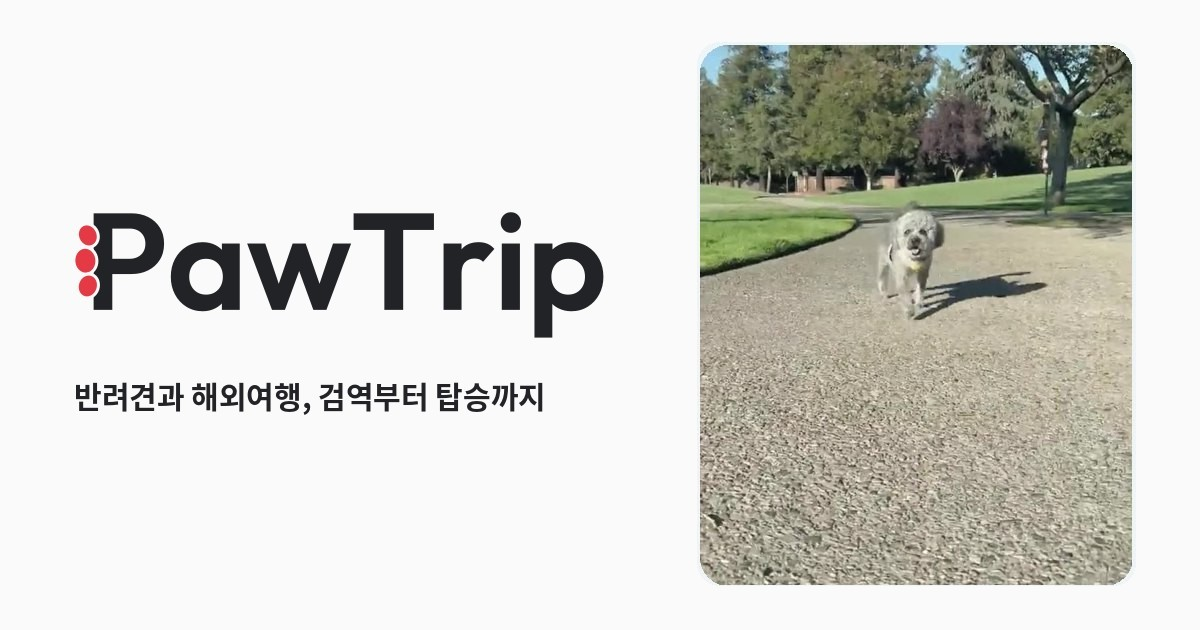
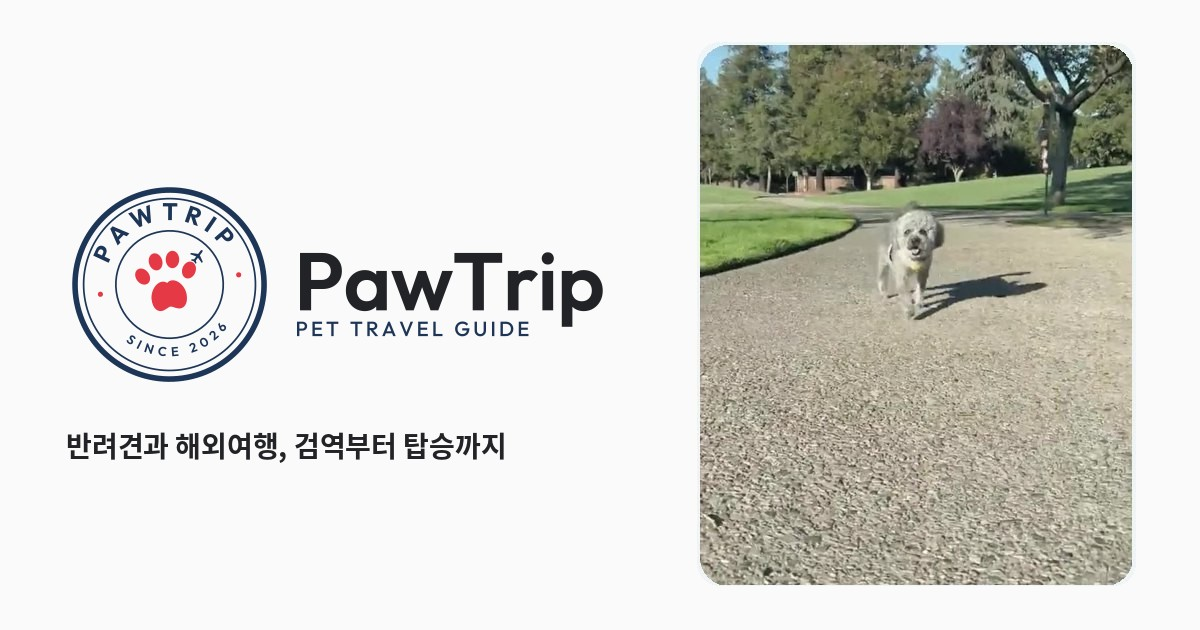
로고를 여권 스탬프 시안(3안)으로 교체: 헤더·파비콘은 간소화 스탬프, 공유 이미지·앱 아이콘은 풀 스탬프
Claude-Session: https://claude.ai/code/session_01V8ND8c5FDq3mgVKqjF2GzP

Changed region(s): [[0.0308, 0.2714, 0.5242, 0.754]]

diff --git a/index.html b/index.html
@@ -70,8 +70,8 @@ h1,h2,h3,h4{margin:0;text-wrap:balance}
 
 /* 로고 */
 .logo{display:inline-flex;align-items:center;text-decoration:none;color:var(--ink);line-height:0}
-.logo svg{height:28px;width:auto}
-.logo .toes{fill:var(--coral);stroke:var(--bg)}
+.logo svg{height:34px;width:auto}
+.rail .logo svg{height:38px}
 
 /* ---------- 모바일 상단 고정 내비 ---------- */
 .topbar{position:sticky;top:0;z-index:40;background:color-mix(in srgb,var(--bg) 88%,transparent);
@@ -333,7 +333,7 @@ table.cmp .dots{font-size:13px}
 
 <header class="topbar">
   <div class="topbar-row">
-    <a class="logo" href="#flights" aria-label="PawTrip 홈"><svg viewBox="-100 0 3932 935" aria-hidden="true" focusable="false"><path fill="currentColor" d="M72 720V17H349Q416 17 469.5 44.0Q523 71 554.0 120.5Q585 170 585.0 238.0Q585 306 554.0 355.5Q523 405 469.5 432.0Q416 459 349 459H208V720ZM208 128V348H335Q367 348 393.0 335.0Q419 322 434.0 297.5Q449 273 449 238Q449 204 434.0 179.0Q419 154 393.0 141.0Q367 128 335 128Z M866 730Q800 730 747.0 697.0Q694 664 664.0 607.0Q634 550 634 479Q634 407 664.0 350.0Q694 293 747.0 260.0Q800 227 866 227Q918 227 959 248Q986 262 1006 283V237H1136V720H1006V673Q986 694 959 708Q918 730 866 730ZM890 609Q945 609 979.0 572.5Q1013 536 1013 478Q1013 440 997.5 410.5Q982 381 954.5 364.5Q927 348 890 348Q854 348 826.5 364.5Q799 381 783.5 410.5Q768 440 768 478Q768 517 783.5 546.5Q799 576 826.5 592.5Q854 609 890 609Z M1371 720 1190 237H1322L1420 530L1521 237H1616L1717 530L1815 237H1947L1767 720H1672L1569 437L1465 720Z M2189 720V138H1965V17H2550V138H2326V720Z M2620 720V237H2751V280Q2751 279 2752 278Q2795 227 2876 227Q2911 227 2939.0 238.5Q2967 250 2990 276L2908 370Q2897 358 2881.5 352.0Q2866 346 2846 346Q2804 346 2777.5 372.5Q2751 399 2751 453V720Z M3044 720V237H3176V720ZM3110 159Q3078 159 3057.0 137.5Q3036 116 3036 84Q3036 53 3057.0 31.0Q3078 9 3110 9Q3143 9 3163.5 31.0Q3184 53 3184 84Q3184 116 3163.5 137.5Q3143 159 3110 159Z M3550 730Q3498 730 3456 708Q3431 696 3412 677V922H3282V237H3413V280Q3432 262 3457 249Q3498 227 3550 227Q3617 227 3670.0 260.0Q3723 293 3753.5 350.0Q3784 407 3784 479Q3784 550 3753.5 607.0Q3723 664 3670.0 697.0Q3617 730 3550 730ZM3527 609Q3563 609 3591.0 592.5Q3619 576 3634.5 546.5Q3650 517 3650 478Q3650 440 3634.5 410.5Q3619 381 3591.0 364.5Q3563 348 3527 348Q3492 348 3464.0 364.5Q3436 381 3420.5 410.5Q3405 440 3405 478Q3405 517 3420.5 546.5Q3436 576 3463.5 592.5Q3491 609 3527 609Z"/><g class="toes" stroke-width="22" paint-order="stroke"><ellipse cx="30" cy="178" rx="74" ry="86" transform="rotate(-24 30 178)"/><ellipse cx="12" cy="362" rx="84" ry="98" transform="rotate(-4 12 362)"/><ellipse cx="30" cy="546" rx="76" ry="88" transform="rotate(18 30 546)"/></g></svg></a>
+    <a class="logo" href="#flights" aria-label="PawTrip 홈"><svg viewBox="0 60 3057 680" aria-hidden="true" focusable="false"><g transform="translate(0 70) scale(0.66)"><g transform="rotate(-8 500 500)"><circle cx="500" cy="500" r="440" fill="none" stroke="var(--navy)" stroke-width="48"/><circle cx="500" cy="500" r="352" fill="none" stroke="var(--navy)" stroke-width="16"/><g fill="var(--coral)"><g transform="rotate(0 500 540)"><path d="M500,436.68 C552.5,387.48 642.5,453.90000000000003 650.0,552.3 C653.0,643.3199999999999 605.0,675.3 563.0,663.0 C530.0,653.16 515.0,638.4 500,638.4 C485.0,638.4 470.0,653.16 437.0,663.0 C395.0,675.3 347.0,643.3199999999999 350.0,552.3 C357.5,453.90000000000003 447.5,387.48 500,436.68Z"/><ellipse cx="302.0" cy="354.0" rx="57.0" ry="73.5" transform="rotate(-28 302.0 354.0)"/><ellipse cx="428.0" cy="246.0" rx="57.0" ry="73.5" transform="rotate(-8 428.0 246.0)"/><ellipse cx="572.0" cy="246.0" rx="57.0" ry="73.5" transform="rotate(8 572.0 246.0)"/><ellipse cx="698.0" cy="354.0" rx="57.0" ry="73.5" transform="rotate(28 698.0 354.0)"/></g></g></g></g><path fill="currentColor" d="M803.2 640.0V218.2H969.4Q1009.6 218.2 1041.7 234.4Q1073.8 250.60000000000002 1092.4 280.3Q1111.0 310.0 1111.0 350.8Q1111.0 391.6 1092.4 421.3Q1073.8 451.0 1041.7 467.2Q1009.6 483.4 969.4 483.4H884.8V640.0ZM884.8 284.8V416.8H961.0Q980.2 416.8 995.8 409.0Q1011.4 401.20000000000005 1020.4000000000001 386.5Q1029.4 371.8 1029.4 350.8Q1029.4 330.40000000000003 1020.4000000000001 315.40000000000003Q1011.4 300.40000000000003 995.8 292.6Q980.2 284.8 961.0 284.8Z M1279.6 646.0Q1240.0 646.0 1208.1999999999998 626.2Q1176.3999999999999 606.4 1158.3999999999999 572.2Q1140.3999999999999 538.0 1140.3999999999999 495.4Q1140.3999999999999 452.20000000000005 1158.3999999999999 418.0Q1176.3999999999999 383.8 1208.1999999999998 364.0Q1240.0 344.2 1279.6 344.2Q1310.8 344.2 1335.3999999999999 356.8Q1351.6 365.2 1363.6 377.8V350.2H1441.6V640.0H1363.6V611.8Q1351.6 624.4 1335.3999999999999 632.8Q1310.8 646.0 1279.6 646.0ZM1294.0 573.4Q1327.0 573.4 1347.4 551.5Q1367.8 529.6 1367.8 494.8Q1367.8 472.0 1358.5 454.3Q1349.1999999999998 436.6 1332.6999999999998 426.70000000000005Q1316.1999999999998 416.8 1294.0 416.8Q1272.3999999999999 416.8 1255.8999999999999 426.70000000000005Q1239.3999999999999 436.6 1230.1 454.3Q1220.8 472.0 1220.8 494.8Q1220.8 518.2 1230.1 535.9000000000001Q1239.3999999999999 553.6 1255.8999999999999 563.5Q1272.3999999999999 573.4 1294.0 573.4Z M1582.6 640.0 1473.9999999999998 350.2H1553.1999999999998L1611.9999999999998 526.0L1672.6 350.2H1729.6L1790.1999999999998 526.0L1848.9999999999998 350.2H1928.1999999999998L1820.1999999999998 640.0H1763.1999999999998L1701.3999999999999 470.20000000000005L1638.9999999999998 640.0Z M2073.3999999999996 640.0V290.8H1938.9999999999998V218.2H2289.9999999999995V290.8H2155.6V640.0Z M2332.0 640.0V350.2H2410.6V376.0Q2410.6 375.40000000000003 2411.2 374.8Q2437.0 344.2 2485.6 344.2Q2506.6 344.2 2523.3999999999996 351.1Q2540.2 358.0 2554.0 373.6L2504.7999999999997 430.0Q2498.2 422.8 2488.8999999999996 419.20000000000005Q2479.6 415.6 2467.6 415.6Q2442.3999999999996 415.6 2426.5 431.5Q2410.6 447.4 2410.6 479.8V640.0Z M2586.4 640.0V350.2H2665.6V640.0ZM2626.0 303.40000000000003Q2606.7999999999997 303.40000000000003 2594.2 290.5Q2581.6 277.6 2581.6 258.40000000000003Q2581.6 239.8 2594.2 226.60000000000002Q2606.7999999999997 213.40000000000003 2626.0 213.40000000000003Q2645.7999999999997 213.40000000000003 2658.1 226.60000000000002Q2670.4 239.8 2670.4 258.40000000000003Q2670.4 277.6 2658.1 290.5Q2645.7999999999997 303.40000000000003 2626.0 303.40000000000003Z M2890.0 646.0Q2858.8 646.0 2833.6 632.8Q2818.6 625.6 2807.2000000000003 614.2V761.2H2729.2000000000003V350.2H2807.8V376.0Q2819.2000000000003 365.2 2834.2000000000003 357.40000000000003Q2858.8 344.2 2890.0 344.2Q2930.2000000000003 344.2 2962.0 364.0Q2993.8 383.8 3012.1000000000004 418.0Q3030.4 452.20000000000005 3030.4 495.4Q3030.4 538.0 3012.1000000000004 572.2Q2993.8 606.4 2962.0 626.2Q2930.2000000000003 646.0 2890.0 646.0ZM2876.2000000000003 573.4Q2897.8 573.4 2914.6000000000004 563.5Q2931.4 553.6 2940.7 535.9000000000001Q2950.0 518.2 2950.0 494.8Q2950.0 472.0 2940.7 454.3Q2931.4 436.6 2914.6000000000004 426.70000000000005Q2897.8 416.8 2876.2000000000003 416.8Q2855.2000000000003 416.8 2838.4 426.70000000000005Q2821.6 436.6 2812.3 454.3Q2803.0 472.0 2803.0 494.8Q2803.0 518.2 2812.3 535.9000000000001Q2821.6 553.6 2838.1 563.5Q2854.6 573.4 2876.2000000000003 573.4Z"/></svg></a>
     <span class="meta">규정 확인일 <b class="vdate">2026-09-29</b></span>
   </div>
   <nav class="tabs" aria-label="메뉴">
@@ -348,7 +348,7 @@ table.cmp .dots{font-size:13px}
 
 <div class="shell">
   <aside class="rail" aria-label="사이트 메뉴">
-    <h1 class="logo" style="margin:0"><a class="logo" href="#flights"><span class="sr-only">PawTrip 포트립</span><svg viewBox="-100 0 3932 935" aria-hidden="true" focusable="false"><path fill="currentColor" d="M72 720V17H349Q416 17 469.5 44.0Q523 71 554.0 120.5Q585 170 585.0 238.0Q585 306 554.0 355.5Q523 405 469.5 432.0Q416 459 349 459H208V720ZM208 128V348H335Q367 348 393.0 335.0Q419 322 434.0 297.5Q449 273 449 238Q449 204 434.0 179.0Q419 154 393.0 141.0Q367 128 335 128Z M866 730Q800 730 747.0 697.0Q694 664 664.0 607.0Q634 550 634 479Q634 407 664.0 350.0Q694 293 747.0 260.0Q800 227 866 227Q918 227 959 248Q986 262 1006 283V237H1136V720H1006V673Q986 694 959 708Q918 730 866 730ZM890 609Q945 609 979.0 572.5Q1013 536 1013 478Q1013 440 997.5 410.5Q982 381 954.5 364.5Q927 348 890 348Q854 348 826.5 364.5Q799 381 783.5 410.5Q768 440 768 478Q768 517 783.5 546.5Q799 576 826.5 592.5Q854 609 890 609Z M1371 720 1190 237H1322L1420 530L1521 237H1616L1717 530L1815 237H1947L1767 720H1672L1569 437L1465 720Z M2189 720V138H1965V17H2550V138H2326V720Z M2620 720V237H2751V280Q2751 279 2752 278Q2795 227 2876 227Q2911 227 2939.0 238.5Q2967 250 2990 276L2908 370Q2897 358 2881.5 352.0Q2866 346 2846 346Q2804 346 2777.5 372.5Q2751 399 2751 453V720Z M3044 720V237H3176V720ZM3110 159Q3078 159 3057.0 137.5Q3036 116 3036 84Q3036 53 3057.0 31.0Q3078 9 3110 9Q3143 9 3163.5 31.0Q3184 53 3184 84Q3184 116 3163.5 137.5Q3143 159 3110 159Z M3550 730Q3498 730 3456 708Q3431 696 3412 677V922H3282V237H3413V280Q3432 262 3457 249Q3498 227 3550 227Q3617 227 3670.0 260.0Q3723 293 3753.5 350.0Q3784 407 3784 479Q3784 550 3753.5 607.0Q3723 664 3670.0 697.0Q3617 730 3550 730ZM3527 609Q3563 609 3591.0 592.5Q3619 576 3634.5 546.5Q3650 517 3650 478Q3650 440 3634.5 410.5Q3619 381 3591.0 364.5Q3563 348 3527 348Q3492 348 3464.0 364.5Q3436 381 3420.5 410.5Q3405 440 3405 478Q3405 517 3420.5 546.5Q3436 576 3463.5 592.5Q3491 609 3527 609Z"/><g class="toes" stroke-width="22" paint-order="stroke"><ellipse cx="30" cy="178" rx="74" ry="86" transform="rotate(-24 30 178)"/><ellipse cx="12" cy="362" rx="84" ry="98" transform="rotate(-4 12 362)"/><ellipse cx="30" cy="546" rx="76" ry="88" transform="rotate(18 30 546)"/></g></svg></a></h1>
+    <h1 class="logo" style="margin:0"><a class="logo" href="#flights"><span class="sr-only">PawTrip 포트립</span><svg viewBox="0 60 3057 680" aria-hidden="true" focusable="false"><g transform="translate(0 70) scale(0.66)"><g transform="rotate(-8 500 500)"><circle cx="500" cy="500" r="440" fill="none" stroke="var(--navy)" stroke-width="48"/><circle cx="500" cy="500" r="352" fill="none" stroke="var(--navy)" stroke-width="16"/><g fill="var(--coral)"><g transform="rotate(0 500 540)"><path d="M500,436.68 C552.5,387.48 642.5,453.90000000000003 650.0,552.3 C653.0,643.3199999999999 605.0,675.3 563.0,663.0 C530.0,653.16 515.0,638.4 500,638.4 C485.0,638.4 470.0,653.16 437.0,663.0 C395.0,675.3 347.0,643.3199999999999 350.0,552.3 C357.5,453.90000000000003 447.5,387.48 500,436.68Z"/><ellipse cx="302.0" cy="354.0" rx="57.0" ry="73.5" transform="rotate(-28 302.0 354.0)"/><ellipse cx="428.0" cy="246.0" rx="57.0" ry="73.5" transform="rotate(-8 428.0 246.0)"/><ellipse cx="572.0" cy="246.0" rx="57.0" ry="73.5" transform="rotate(8 572.0 246.0)"/><ellipse cx="698.0" cy="354.0" rx="57.0" ry="73.5" transform="rotate(28 698.0 354.0)"/></g></g></g></g><path fill="currentColor" d="M803.2 640.0V218.2H969.4Q1009.6 218.2 1041.7 234.4Q1073.8 250.60000000000002 1092.4 280.3Q1111.0 310.0 1111.0 350.8Q1111.0 391.6 1092.4 421.3Q1073.8 451.0 1041.7 467.2Q1009.6 483.4 969.4 483.4H884.8V640.0ZM884.8 284.8V416.8H961.0Q980.2 416.8 995.8 409.0Q1011.4 401.20000000000005 1020.4000000000001 386.5Q1029.4 371.8 1029.4 350.8Q1029.4 330.40000000000003 1020.4000000000001 315.40000000000003Q1011.4 300.40000000000003 995.8 292.6Q980.2 284.8 961.0 284.8Z M1279.6 646.0Q1240.0 646.0 1208.1999999999998 626.2Q1176.3999999999999 606.4 1158.3999999999999 572.2Q1140.3999999999999 538.0 1140.3999999999999 495.4Q1140.3999999999999 452.20000000000005 1158.3999999999999 418.0Q1176.3999999999999 383.8 1208.1999999999998 364.0Q1240.0 344.2 1279.6 344.2Q1310.8 344.2 1335.3999999999999 356.8Q1351.6 365.2 1363.6 377.8V350.2H1441.6V640.0H1363.6V611.8Q1351.6 624.4 1335.3999999999999 632.8Q1310.8 646.0 1279.6 646.0ZM1294.0 573.4Q1327.0 573.4 1347.4 551.5Q1367.8 529.6 1367.8 494.8Q1367.8 472.0 1358.5 454.3Q1349.1999999999998 436.6 1332.6999999999998 426.70000000000005Q1316.1999999999998 416.8 1294.0 416.8Q1272.3999999999999 416.8 1255.8999999999999 426.70000000000005Q1239.3999999999999 436.6 1230.1 454.3Q1220.8 472.0 1220.8 494.8Q1220.8 518.2 1230.1 535.9000000000001Q1239.3999999999999 553.6 1255.8999999999999 563.5Q1272.3999999999999 573.4 1294.0 573.4Z M1582.6 640.0 1473.9999999999998 350.2H1553.1999999999998L1611.9999999999998 526.0L1672.6 350.2H1729.6L1790.1999999999998 526.0L1848.9999999999998 350.2H1928.1999999999998L1820.1999999999998 640.0H1763.1999999999998L1701.3999999999999 470.20000000000005L1638.9999999999998 640.0Z M2073.3999999999996 640.0V290.8H1938.9999999999998V218.2H2289.9999999999995V290.8H2155.6V640.0Z M2332.0 640.0V350.2H2410.6V376.0Q2410.6 375.40000000000003 2411.2 374.8Q2437.0 344.2 2485.6 344.2Q2506.6 344.2 2523.3999999999996 351.1Q2540.2 358.0 2554.0 373.6L2504.7999999999997 430.0Q2498.2 422.8 2488.8999999999996 419.20000000000005Q2479.6 415.6 2467.6 415.6Q2442.3999999999996 415.6 2426.5 431.5Q2410.6 447.4 2410.6 479.8V640.0Z M2586.4 640.0V350.2H2665.6V640.0ZM2626.0 303.40000000000003Q2606.7999999999997 303.40000000000003 2594.2 290.5Q2581.6 277.6 2581.6 258.40000000000003Q2581.6 239.8 2594.2 226.60000000000002Q2606.7999999999997 213.40000000000003 2626.0 213.40000000000003Q2645.7999999999997 213.40000000000003 2658.1 226.60000000000002Q2670.4 239.8 2670.4 258.40000000000003Q2670.4 277.6 2658.1 290.5Q2645.7999999999997 303.40000000000003 2626.0 303.40000000000003Z M2890.0 646.0Q2858.8 646.0 2833.6 632.8Q2818.6 625.6 2807.2000000000003 614.2V761.2H2729.2000000000003V350.2H2807.8V376.0Q2819.2000000000003 365.2 2834.2000000000003 357.40000000000003Q2858.8 344.2 2890.0 344.2Q2930.2000000000003 344.2 2962.0 364.0Q2993.8 383.8 3012.1000000000004 418.0Q3030.4 452.20000000000005 3030.4 495.4Q3030.4 538.0 3012.1000000000004 572.2Q2993.8 606.4 2962.0 626.2Q2930.2000000000003 646.0 2890.0 646.0ZM2876.2000000000003 573.4Q2897.8 573.4 2914.6000000000004 563.5Q2931.4 553.6 2940.7 535.9000000000001Q2950.0 518.2 2950.0 494.8Q2950.0 472.0 2940.7 454.3Q2931.4 436.6 2914.6000000000004 426.70000000000005Q2897.8 416.8 2876.2000000000003 416.8Q2855.2000000000003 416.8 2838.4 426.70000000000005Q2821.6 436.6 2812.3 454.3Q2803.0 472.0 2803.0 494.8Q2803.0 518.2 2812.3 535.9000000000001Q2821.6 553.6 2838.1 563.5Q2854.6 573.4 2876.2000000000003 573.4Z"/></svg></a></h1>
     <nav aria-label="메뉴">
       <ol>
         <li><a href="#flights" data-tab="flights"><span class="dot"></span>항공편 선택</a></li>
